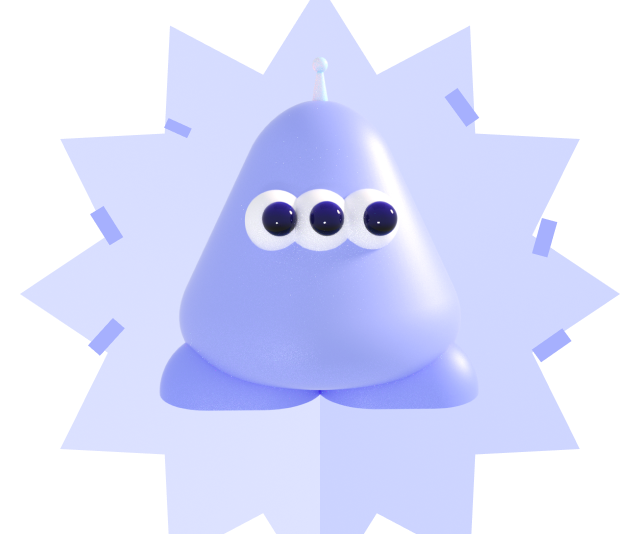
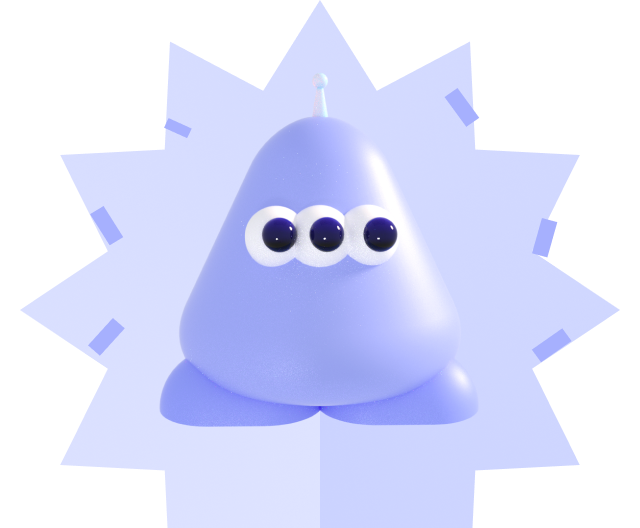
Feat/id card style (#369)
* style: bg-gray-10 추가

* style: 행성페이지 배경색 변경

* style: 행성 카드 그림자

* style: 주민증 앞면 디자인 반영

* style: 주민증 뒷면 레이아웃 반영

* style: 주민증 태그 스타일 반영

* style: 주민증 키워드 스타일 반영

* style: 주민증 키워드 스타일 반영

* style: 주민증 상단 UI 배치 변경사항 반영

* style: 주민증 배치 레이아웃 변경

diff --git a/src/modules/IdCard/IdCard.client.tsx b/src/modules/IdCard/IdCard.client.tsx
@@ -20,11 +20,14 @@ type IdCardProps = {
   className?: string;
 };
 const bgColors: Record<CharacterNameModel, string> = {
-  BUDDY: 'bg-buddy-400',
-  TOBBY: 'bg-tobby-400',
-  PIPI: 'bg-pipi-400',
-  TRUE: 'bg-true-400',
+  BUDDY: 'bg-buddy-100',
+  TOBBY: 'bg-tobby-100',
+  PIPI: 'bg-pipi-100',
+  TRUE: 'bg-true-100',
 };
+
+// NOTE: 이미지 캐시를 무시하기 위한 랜덤값
+const ignoreCache = () => Math.random();
 
 export const IdCard = ({
   idCardId,
@@ -48,9 +51,15 @@ export const IdCard = ({
   const isShowCommentCount = !(Number(planetIdPathname) === DINGDONG_PLANET.DINGDONG_PLANET_ID);
 
   return (
-    <div className={tw('w-full', className)} onClick={handleClickIdCard}>
-      <div className={`${bgColor} rounded-t-2xl p-20pxr`}>
-        <div className="flex gap-8pxr">
+    <div
+      className={tw(
+        'w-full rounded-xl border border-gray-200 shadow-[0_2px_24px_0px_rgba(0,0,0,0.05)]',
+        className,
+      )}
+      onClick={handleClickIdCard}
+    >
+      <div className="rounded-t-xl bg-white p-20pxr">
+        <div className="flex items-center gap-6pxr">
           <div className="h-36pxr w-36pxr flex-shrink-0 overflow-hidden rounded-full">
             <Image
               width={36}
@@ -60,9 +69,9 @@ export const IdCard = ({
               className="max-h-[36px] min-h-[36px] min-w-[36px] max-w-[36px] rounded-full object-cover"
             />
           </div>
-          <p className="text-h1">{nickname}</p>
+          <p className="text-h4">{nickname}</p>
         </div>
-        <p className="mt-14pxr text-b2">{aboutMe}</p>
+        <p className="mt-14pxr text-b2 font-medium text-gray-800">{aboutMe}</p>
         <div className="mt-12pxr flex max-h-14 flex-wrap gap-1.5 overflow-hidden">
           {keywordTitles.map(keywordTitle => (
             //TODO: 태그 2줄 이상 길어지면 ... 처리 필요
@@ -70,16 +79,18 @@ export const IdCard = ({
           ))}
         </div>
       </div>
-      <div className={`${bgColor} relative w-full rounded-b-2xl pb-[83%]`}>
+      <div className={`${bgColor} relative w-full rounded-b-xl pb-[83%]`}>
         <Image
-          src={`/assets/images/${characterType}.png`}
+          src={`/assets/images/${characterType}.png?${ignoreCache()}`}
           alt="character image"
           fill
-          object-fit="contain"
-          object-position="center"
+          sizes="100vw"
+          style={{
+            paddingTop: 16,
+          }}
         />
         {commentCount !== undefined && isShowCommentCount && (
-          <div className="absolute bottom-[33px] left-[22px] flex items-center gap-2pxr text-detail font-medium text-grey-900">
+          <div className="absolute bottom-[33px] left-[22px] flex items-center gap-2pxr rounded-xl bg-[rgba(239,239,239,0.50)] px-2 py-2pxr text-detail font-medium text-grey-900">
             <ChatBubbleIcon />
             <span>{commentCount}</span>
           </div>

diff --git a/src/modules/IdCardDetail/Intro.tsx b/src/modules/IdCardDetail/Intro.tsx
@@ -22,24 +22,24 @@ export const Intro = ({
   const bgColor = bgColors[characterType];
 
   return (
-    <div className="flex justify-between gap-10pxr px-21pxr pb-25pxr pt-8pxr">
-      <div className={`${bgColor} flex flex-col gap-[9px]`}>
-        <p className="text-h3">{nickname}</p>
-        <p className="text-b3 text-grey-600">{aboutMe}</p>
+    <div className="px-21pxr pb-25pxr pt-8pxr">
+      <div className={`${bgColor} flex flex-col items-center`}>
+        <div className="mb-10pxr h-80pxr w-80pxr flex-shrink-0 overflow-hidden rounded-full">
+          <Image
+            width={80}
+            height={80}
+            src={profileImageUrl}
+            alt="profile image"
+            className="max-h-[88px] min-h-[88px] min-w-[88px] max-w-[88px] rounded-full border-[1px] border-solid border-grey-100 object-cover"
+          />
+        </div>
+        <p className="mb-2 text-h4">{nickname}</p>
+        <p className="mb-4 text-center text-b3 text-grey-600">{aboutMe}</p>
         <div className="flex max-h-14 flex-wrap gap-6pxr overflow-hidden">
           {keywords.map(keyword => (
             <Tag key={keyword.title} type={characterType} label={keyword.title} />
           ))}
         </div>
-      </div>
-      <div className="h-80pxr w-80pxr flex-shrink-0 overflow-hidden rounded-full">
-        <Image
-          width={80}
-          height={80}
-          src={profileImageUrl}
-          alt="profile image"
-          className="max-h-[88px] min-h-[88px] min-w-[88px] max-w-[88px] rounded-full border-[1px] border-solid border-grey-100 object-cover"
-        />
       </div>
     </div>
   );

diff --git a/src/app/planet/[communityId]/id-card/[idCardId]/components/IdCardDetail/IdCardDetail.tsx b/src/app/planet/[communityId]/id-card/[idCardId]/components/IdCardDetail/IdCardDetail.tsx
@@ -35,7 +35,7 @@ const IdCardDetailComponent = ({ idCardId, communityId }: IdCardDetailProps) => 
 
   return (
     <>
-      <TopNavigation bgColor={bgColor}>
+      <TopNavigation>
         <TopNavigation.Left>
           <TopNavigation.BackButton />
         </TopNavigation.Left>
@@ -50,9 +50,9 @@ const IdCardDetailComponent = ({ idCardId, communityId }: IdCardDetailProps) => 
           </TopNavigation.Right>
         )}
       </TopNavigation>
-      <div className={`${bgColor} pt-[44px]`}>
+      <div className={`${bgColor} rounded-3xl pt-7`}>
         <Intro {...idCardDetailsDto} />
-        <div className="flex flex-col gap-4 bg-white px-5 py-6">
+        <div className="flex flex-col gap-5 bg-white px-5 py-5">
           {idCardDetailsDto.keywords.map(keyword => (
             <KeywordContentCard
               key={keyword.keywordId}
@@ -63,7 +63,7 @@ const IdCardDetailComponent = ({ idCardId, communityId }: IdCardDetailProps) => 
                   <img
                     src={keyword.imageUrl}
                     alt={keyword.title}
-                    className="mx-auto my-0 max-h-[192px] max-w-[308px] object-contain"
+                    className="mx-auto my-0 w-full rounded-xl object-contain"
                   />
                 )
               }

diff --git a/src/app/planet/[communityId]/components/CommunityDetail/CommunityDetail.tsx b/src/app/planet/[communityId]/components/CommunityDetail/CommunityDetail.tsx
@@ -24,7 +24,7 @@ export const CommunityDetailComponent = ({ id }: CommunityDetailProps) => {
   const { coverImageUrl, title, logoImageUrl, userCount, description } = data.communityDetailsDto;
 
   return (
-    <div>
+    <div className="h-[calc(420px*0.65)]">
       {/*  width = 100vw, height = width * 0.48 */}
       <div className="relative h-[calc(420px*0.48)] mobile:h-[calc(100vw*0.48)]">
         <Image
@@ -34,7 +34,7 @@ export const CommunityDetailComponent = ({ id }: CommunityDetailProps) => {
           style={{ objectFit: 'cover' }}
         />
       </div>
-      <div className="flex w-[calc(100vw-40px)] max-w-[calc(420px-40px)] translate-x-[20px] translate-y-[-50%] items-center gap-12pxr rounded-3xl border border-grey-100 bg-white p-18pxr">
+      <div className="flex w-[calc(100vw-40px)] max-w-[calc(420px-40px)] translate-x-[20px] translate-y-[-50%] items-center gap-12pxr rounded-3xl border border-gray-200 bg-white p-18pxr shadow-[0_2px_24px_0px_rgba(0,0,0,0.05)]">
         <CommunityLogoImage logoImageUrl={logoImageUrl} />
         <div className="flex flex-col gap-8pxr">
           <p className="text-sm font-medium text-gray-800">{`주민 ${

diff --git a/src/components/Tag/Tag.tsx b/src/components/Tag/Tag.tsx
@@ -6,10 +6,10 @@ type TagProps = {
 };
 
 const colors: Record<CharacterNameModel, string> = {
-  BUDDY: 'text-buddy-700 bg-buddy-200 border-buddy-400',
-  TOBBY: 'text-tobby-700 bg-tobby-200 border-tobby-400',
-  PIPI: 'text-pipi-700 bg-pipi-200 border-pipi-400',
-  TRUE: 'text-true-700 bg-true-200 border-true-400',
+  BUDDY: 'text-buddy-700 border-buddy-200',
+  TOBBY: 'text-tobby-700 border-tobby-200',
+  PIPI: 'text-pipi-700 border-pipi-200',
+  TRUE: 'text-true-700 border-true-200',
 };
 
 const getCharacterColor = (type: CharacterNameModel) => {
@@ -19,7 +19,7 @@ const getCharacterColor = (type: CharacterNameModel) => {
 const getClassName = (type: CharacterNameModel) => {
   return `${getCharacterColor(
     type,
-  )} inline-block rounded border border-solid px-2 py-1 text-detail font-medium`;
+  )} inline-block rounded-xl border border-solid px-2 py-1 text-detail font-medium bg-white`;
 };
 
 const Tag = ({ type, label }: TagProps) => {

diff --git a/src/modules/IdCardDetail/KeywordContentCard.tsx b/src/modules/IdCardDetail/KeywordContentCard.tsx
@@ -19,13 +19,13 @@ export const KeywordContentCard = ({
   ...props
 }: KeywordContentCardProps) => {
   return (
-    <div className={tw('w-full rounded-xl bg-grey-100', className)} onClick={onClick} {...props}>
-      <p className="px-[14px] py-[10px] text-base  font-semibold text-grey-900">{title}</p>
-      <div className="border-[0.5px] border-solid border-grey-200" />
-      <div className="flex flex-col gap-2 px-[14px] pb-[20px] pt-[8px] ">
+    <div className={tw('w-full', className)} onClick={onClick} {...props}>
+      <p className="mb-3 h-5 font-semibold text-grey-900">{title}</p>
+      <div className="flex flex-col gap-2 pb-[20px]">
         {image}
         <p className="text-[15px] font-normal text-grey-800">{content}</p>
       </div>
+      <div className="-ml-5 w-[420px] border-[0.5px] border-solid border-grey-100" />
     </div>
   );
 };

diff --git a/src/modules/IdCardCreation/Step/KeywordContentImage.client.tsx b/src/modules/IdCardCreation/Step/KeywordContentImage.client.tsx
@@ -21,11 +21,7 @@ export const KeywordContentImage = ({ index }: KeywordContentImageProps) => {
   return imageUrl ? (
     <div className="relative mx-auto my-0 w-fit">
       {/* eslint-disable-next-line @next/next/no-img-element */}
-      <img
-        src={imageUrl}
-        className="max-h-[192px] max-w-[308px] object-contain"
-        alt="image preview"
-      />
+      <img src={imageUrl} className="w-full rounded-xl object-contain" alt="image preview" />
       <div className="absolute right-[12px] top-[12px] flex h-[16px] w-[16px]  items-center justify-center rounded-full bg-grey-800">
         <CancelCircleIcon className="fill-grey-800" onClick={onCancelClick} />
       </div>

diff --git a/src/app/planet/[communityId]/components/CommunityIdCards/CommunityIdCards.client.tsx b/src/app/planet/[communityId]/components/CommunityIdCards/CommunityIdCards.client.tsx
@@ -25,7 +25,7 @@ export const CommunityIdCardsComponent = ({ communityId }: CommunityIdCardsProps
   }, [inView, fetchNextPage, communityIdCards?.pages]);
 
   return (
-    <div className="px-[27px]">
+    <div className="px-5">
       {isEmpty || (
         <div className="flex flex-col gap-18pxr pb-18pxr">
           <h3 className="text-h3 text-grey-800">우리 행성 주민을 소개할게요!</h3>

diff --git a/src/app/planet/[communityId]/page.tsx b/src/app/planet/[communityId]/page.tsx
@@ -37,7 +37,7 @@ const PlanetPage = async ({ params: { communityId: communityIdParam } }: PlanetP
   };
 
   return (
-    <main className="mb-50pxr">
+    <main className="mb-50pxr bg-grey-10">
       <TopNavigation>
         <TopNavigation.Left>
           <PlanetSelector />

diff --git a/tailwind.config.js b/tailwind.config.js
@@ -55,6 +55,7 @@ module.exports = {
         white: '#FFFFFF',
         black: '#090909',
         grey: {
+          10: '#FEFEFE',
           50: '#FAFAFA',
           100: '#F5F5F5',
           200: '#EFEFEF',
